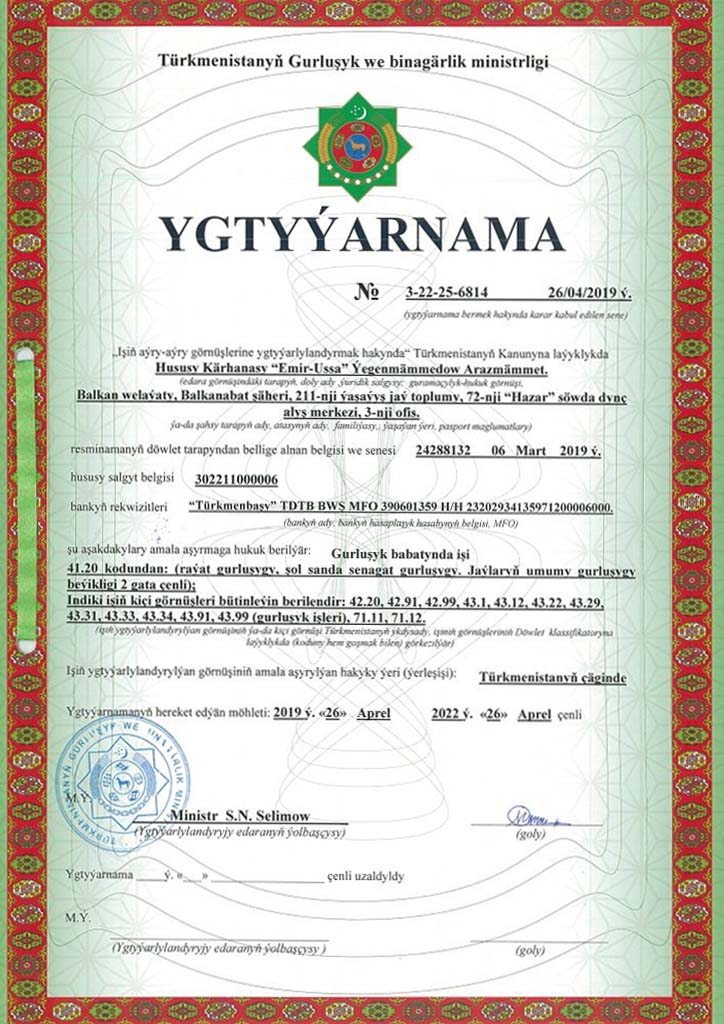
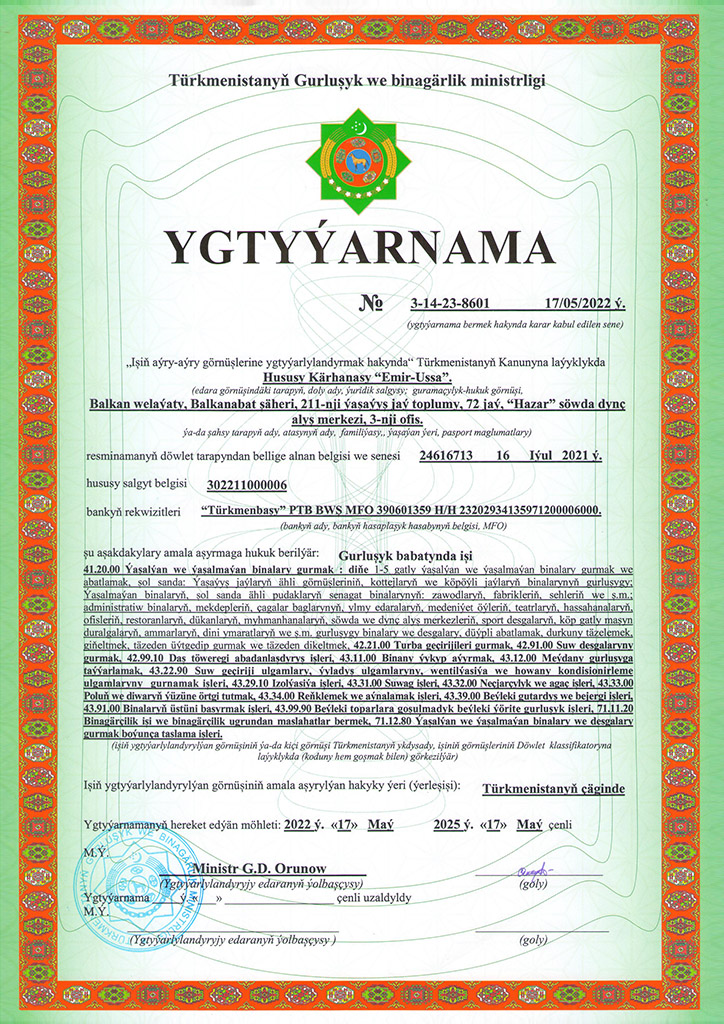
fixed bugs

diff --git a/js/db.js b/js/db.js
@@ -103,7 +103,7 @@ var arrLang = {
       'services_cardtext4' : 'Dürli senagat pudaklarynda maslahat beriş hyzmatlary.',
       'services_cardtext5' : 'Dünýäniň öňdebaryjy öndürijilerinden enjamlar we himiki serişdeler bilen üpjünçilik.',
       'gallery_title' : '«Biz geljegimizi gurýarys»',
-      'gallery_text' : 'Kärhananyň, Türkmenistanyň kanunçylygyna laýyklykda aşakda görkezilen işleri ýerine ýetirmäge hukugy bar: gurluşyk we dizaýn işleri (41.20, 42.20, 42.91, 42.99, 43.1, 43.12, 43.22, 43.29, 43.31, 43.33, 43.34, 43.91, 43.99, 71.11, 71.12), ýöriteleşdirilen enjamlary işe girizmek we gazanlara gözegçilik (kody 42.3, 42.4), himiki önümleriň söwdasy (kod 46.75), ýörite ýük daşamak (49.41), elektrik we dizaýn işleri (42.22.10, 43.21.50, 71.11.40)',
+      'gallery_text' : 'Kärhananyň, Türkmenistanyň kanunçylygyna laýyklykda aşakda görkezilen işleri ýerine ýetirmäge hukugy bar: gurluşyk we taslama işleri (41.20, 42.20, 42.91, 42.99, 43.1, 43.12, 43.22, 43.29, 43.31, 43.33, 43.34, 43.91, 43.99, 71.11, 71.12), ýöriteleşdirilen enjamlary işe girizmek we gazanlara gözegçilik (kody 42.3, 42.4), himiki önümleriň söwdasy (kod 46.75), ýörite ýük daşamak (49.41), elektrotehniki we taslama işleri (42.22.10, 43.21.50, 71.11.40)',
       'contacts_title' : 'Biz size kömek üçin bärde',
       'contacts_text' : 'Kärhanamyzyň hyzmatdaşlygynyň maksady diňe bir gezeklik eltip bermek däl, eýsem müşderiniň uzak möhletleýin tehniki goldawy we pikirleri.',
       'contacts_loc1' : 'Baş ofis',

diff --git a/css/style.css b/css/style.css
@@ -1,3 +1,4 @@
+@charset "UTF-8";
 .arch-plan {
   position: relative;
 }
@@ -275,7 +276,7 @@
   font-family: "FontAwesome";
   font-weight: 900;
   color: #FFF;
-  content: "\f06e";
+  content: "";
   font-size: 40px;
   height: 30px;
   position: absolute;
@@ -316,7 +317,7 @@
   font-family: "FontAwesome";
   font-weight: 900;
   color: #FFF;
-  content: "\f06e";
+  content: "";
   font-size: 40px;
   height: 30px;
   position: absolute;
@@ -568,8 +569,8 @@
   display: flex;
   content: "";
   border-radius: 50%;
-  -webkit-box-shadow: 0 0 0 0 rgb(0, 0, 0);
-          box-shadow: 0 0 0 0 rgb(0, 0, 0);
+  -webkit-box-shadow: 0 0 0 0 black;
+          box-shadow: 0 0 0 0 black;
   margin: 10px;
   height: 100px;
   width: 100px;
@@ -1254,7 +1255,8 @@
 
 .mobile-nav-toggle i {
   margin: 18px 18px 0 0;
-  color: #065e77;
+  color: #00bc50;
+  font-size: 28px;
 }
 
 .mobile-nav-overly {
@@ -1569,6 +1571,10 @@
     margin-bottom: 20px;
   }
 
+  .sl-nav {
+    display: none;
+  }
+
   #header {
     height: 80px;
   }
@@ -1580,9 +1586,6 @@
 
   .logo {
     margin-top: 10px;
-  }
-  .logo img {
-    width: 80px;
   }
 
   #topbar {
@@ -1897,6 +1900,10 @@ h6 {
     margin-bottom: 20px;
   }
 
+  .sl-nav {
+    display: none;
+  }
+
   #header {
     height: 80px;
   }
@@ -1908,9 +1915,6 @@ h6 {
 
   .logo {
     margin-top: 10px;
-  }
-  .logo img {
-    width: 80px;
   }
 
   #topbar {

diff --git a/index.html b/index.html
@@ -65,9 +65,9 @@
           </ul>
           <div class="mobile_menu">
             <div class="topbar_lang">
-              <a class="translate" id="ru"> <span> RU</span></a>
-              <a class="translate" id="en"> <span> TM</span></a>
-              <a class="translate" id="en"> <span> EN</span></a>
+              <a class="translate" id="ru"> <span onclick="changeLang('ru');" >RU</span></a>
+              <a class="translate" id="en"> <span onclick="changeLang('tm');" >TM</span></a>
+              <a class="translate" id="en">  <span onclick="changeLang('en');">EN</span></a>
             </div> 
           </div>
         </nav>
@@ -290,6 +290,11 @@
                       <div class="item">
                         <a class="license__a" data-lightbox="gallery" href="img/license/5.jpg">
                           <img class="" src="img/license/5.jpg" />
+                        </a>  
+                      </div>
+                      <div class="item">
+                        <a class="license__a" data-lightbox="gallery" href="img/license/6.jpg">
+                          <img class="" src="img/license/6.jpg" />
                         </a>  
                       </div>
                   </div>

diff --git a/sass/partial/_media.sass b/sass/partial/_media.sass
@@ -70,6 +70,8 @@
     .services__card-last
         margin-bottom: 20px
 
+    .sl-nav
+        display: none
 
     //NOT REMOVE STYLE
     #header
@@ -79,8 +81,8 @@
         padding: 0
     .logo
         margin-top: 10px
-        img
-            width: 80px
+        // img
+        //     width: 80px
     #topbar
         display: none
     .mobile_menu

diff --git a/sass/partial/_header.sass b/sass/partial/_header.sass
@@ -279,7 +279,8 @@
 
 .mobile-nav-toggle i
   margin: 18px 18px 0 0
-  color: #065e77
+  color: $green
+  font-size: 28px
 
 .mobile-nav-overly
   width: 100%
